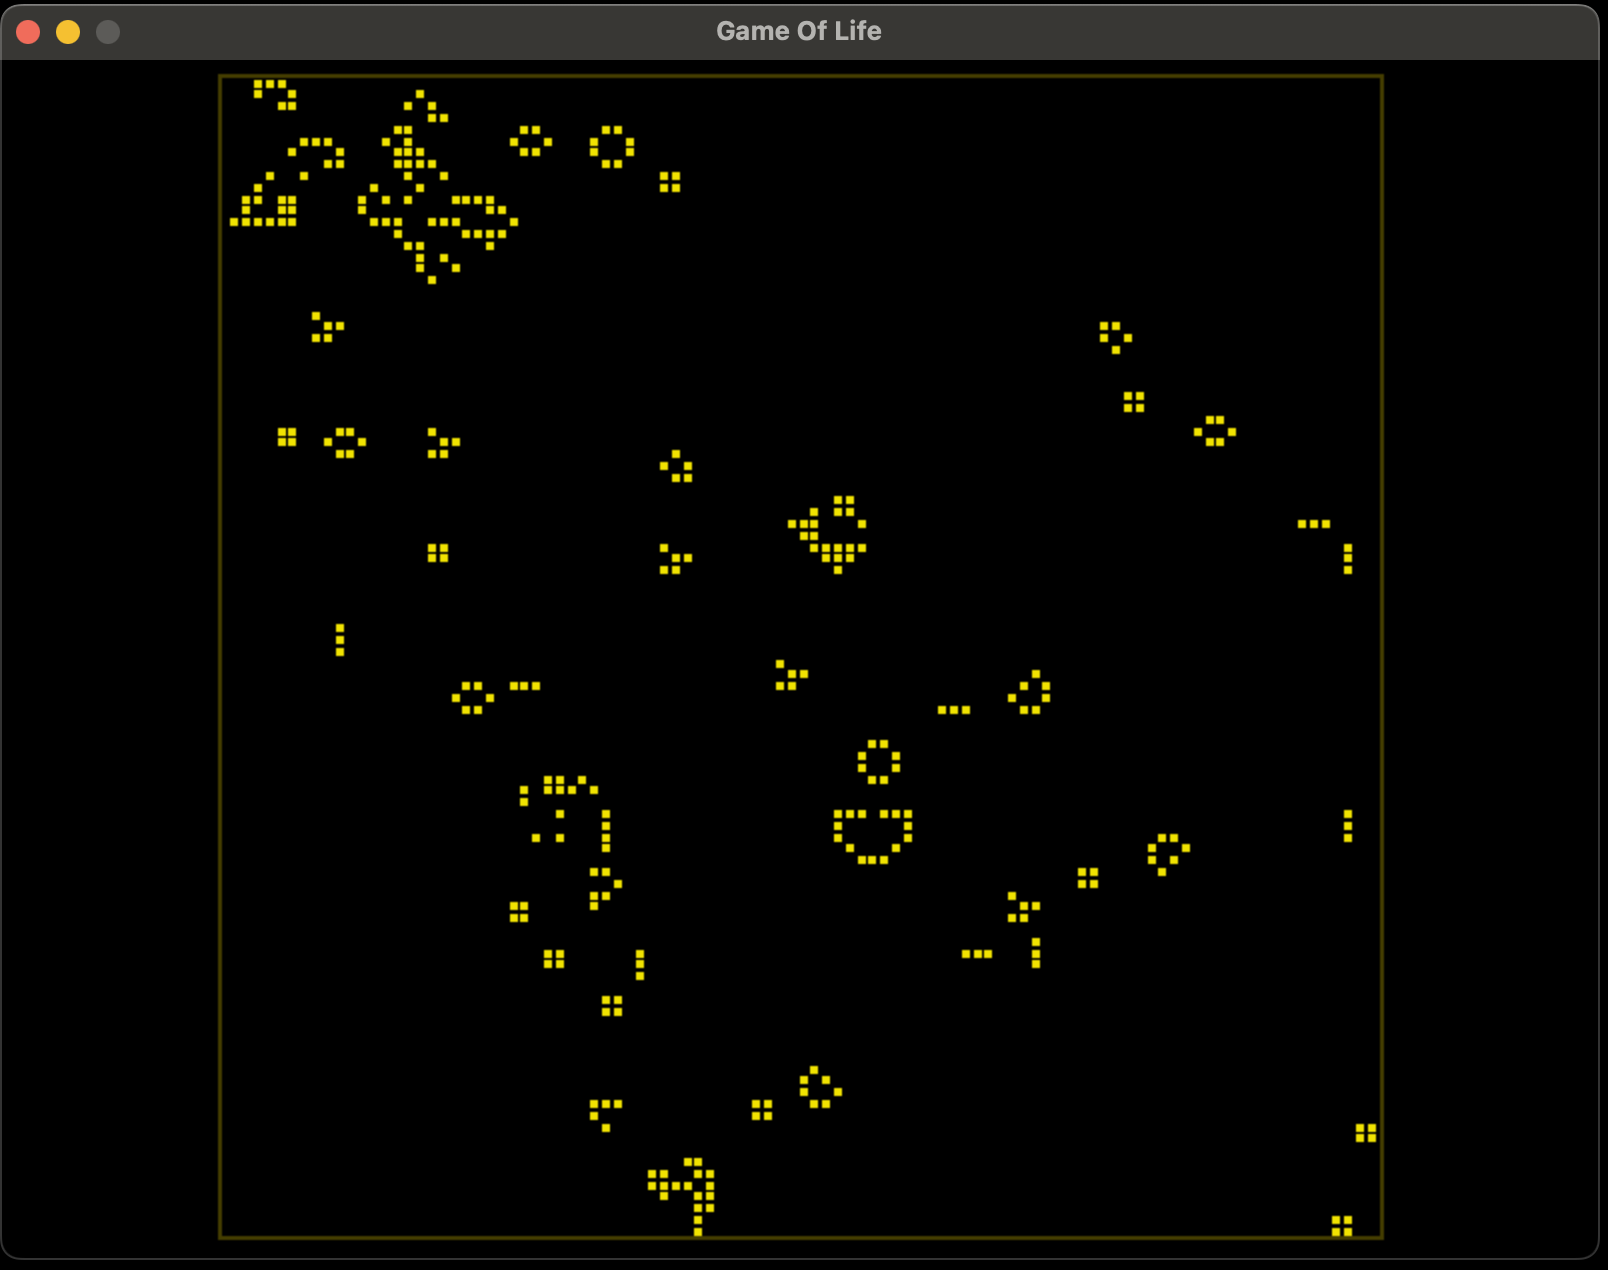
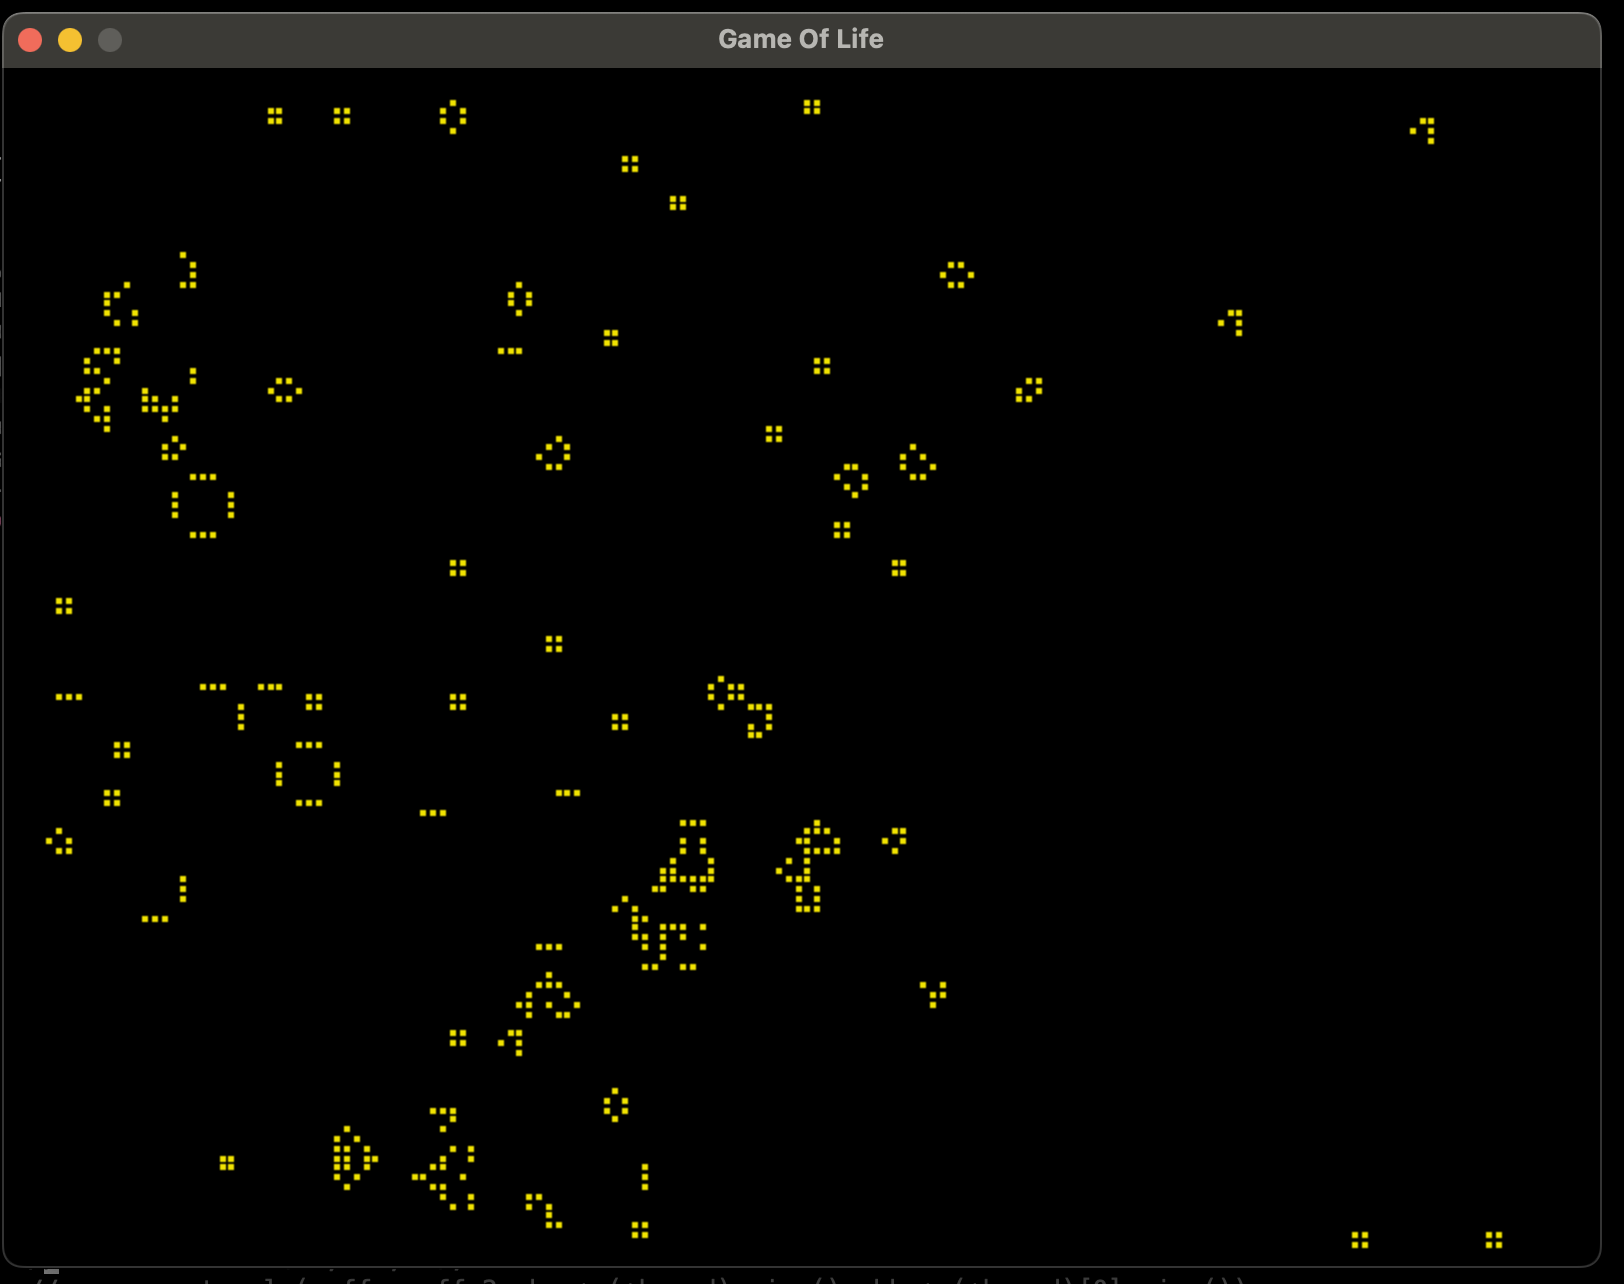
update screenshot of running image

diff --git a/board.cpp b/board.cpp
@@ -248,7 +248,7 @@ void Board::draw(Screen *scr){
   scr->setColor(245,225,0);  
 
   float bw = (int)(scr->width / board->size());
-  float bh = (int)(scr->height / (*board)[0].size()) - 0.18;
+  float bh = (int)(scr->height / (*board)[0].size()) - 0.2;
 
   // normally just take min bw, bhw... we know bh is smaller
   // we get square block here
@@ -261,7 +261,7 @@ void Board::draw(Screen *scr){
   for (int x=0; x < (*board).size(); x++) {
     for (int y=0; y < (*board)[x].size(); y++) {
       if ((*board)[x][y] > 0) {
-        scr->fill_rectangle(xoff + (x * bw), yoff + (y * bh), bw, bh);
+        scr->fill_rectangle(xoff + (x * bw), yoff + (y * bh), bw-1, bh-1);
       }
     }
   }

diff --git a/game_of_life.cpp b/game_of_life.cpp
@@ -19,14 +19,14 @@ description   : Game of life
 
 void seed_guns(Board& game_board){
   game_board.seed_file("./examples/new_gun.cells");
-  game_board.seed_file("./examples/glider_gun.cells", 20, 104);
+  game_board.seed_file("./examples/glider_gun.cells", 20, 74);
 }
 
 int main(int argc, char **argv) {
   Screen screen(800, 600, "Game Of Life", false);
   SDL_ShowCursor(SDL_DISABLE);
 
-  Board game_board(203, 150);
+  Board game_board(160, 120);
   int speed_delay = 60; // higher is slower, (16 or lower is around max 60fps)
 
   long evolutions = 1;
